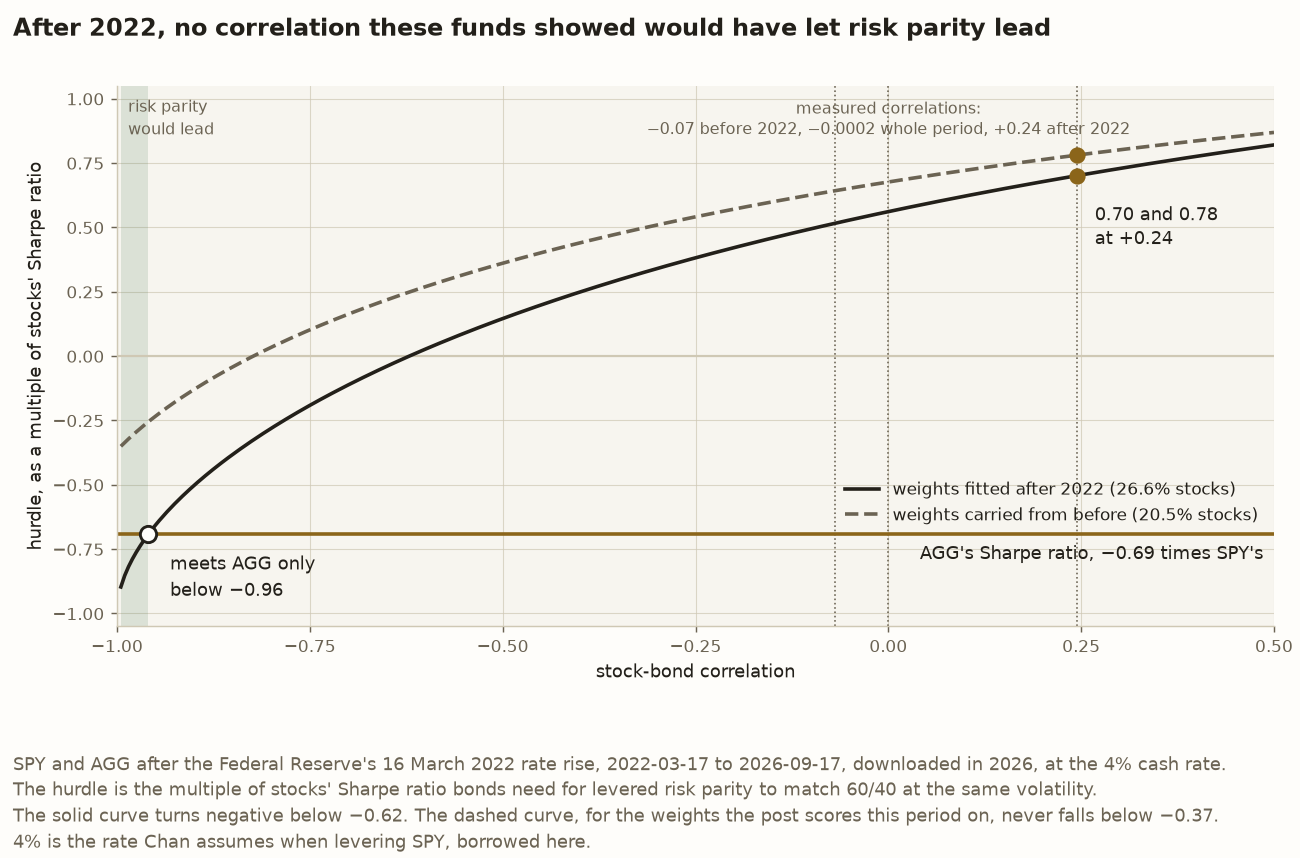
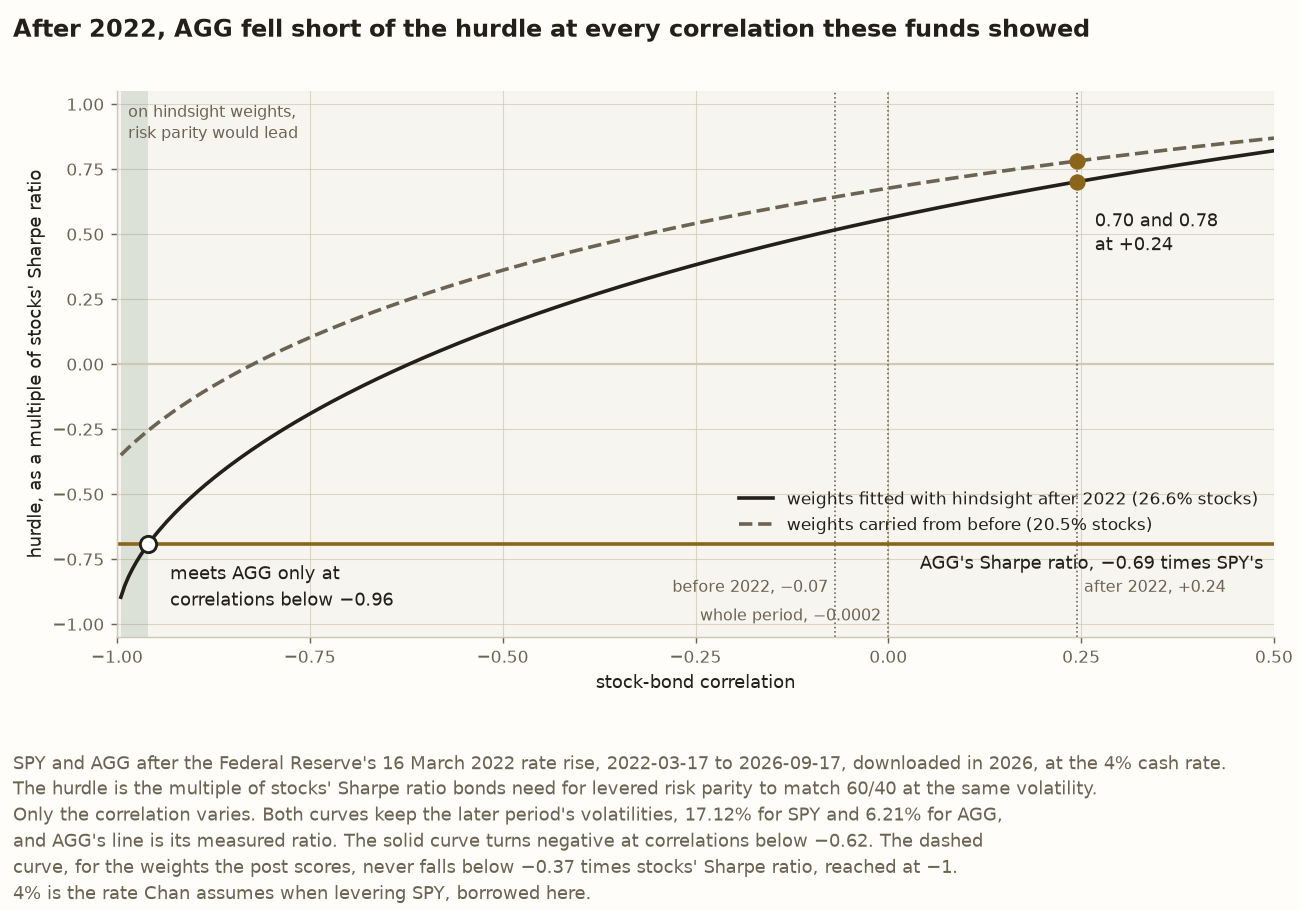
fix(figures): apply the review of the Lesson 6 figure
Three reviewers looked at the correlation figure. None found a wrong
number, and one reached every value by an independent derivation. What
survived:

- The shaded band said risk parity would lead below a correlation of
  -0.96 without saying on which weights. Only the hindsight weights do,
  and on the carried weights the post scores nothing closes the gap. The
  band and the legend now say hindsight weights.
- The figure never said it holds the later period's volatilities and
  AGG's measured ratio fixed while only the correlation moves, and its
  title claimed an outcome it does not model. The note now says what
  is held fixed, and the title describes the gap: AGG fell short of the
  hurdle at every correlation these funds showed.
- Correlations and hurdle values sat in one sentence with no units. The
  note, the labels, the alt text and README now name which is which.
- The three measured correlations shared one text block a dotted line
  ran through. Each line now carries its own label.
- Lesson 6 argued only on the hindsight weights. It now gives the
  carried weights' hurdle too, and the caption's "no correlation at
  all" is qualified by the 4% rate it holds at.
- No test covered the x axis. Tests now pin its range, ticks and labels,
  and four re-run mutations each fail.

diff --git a/src/chan/risk_parity_figures.py b/src/chan/risk_parity_figures.py
@@ -1350,6 +1350,8 @@ class CorrelationCurves:
     turns_negative: float
     meets_agg: float
     carried_floor: float
+    stock_vol: float
+    bond_vol: float
     start: str
     end: str
 
@@ -1411,6 +1413,8 @@ def correlation_curves() -> CorrelationCurves:
         turns_negative=_root(fitted, low, high),
         meets_agg=_root(lambda rho: fitted(rho) - agg, low, high),
         carried_floor=carried(-1.0),
+        stock_vol=legs.stock_vol,
+        bond_vol=legs.bond_vol,
         start=legs.start,
         end=legs.end,
     )
@@ -1427,7 +1431,7 @@ def make_correlation_figure(out: Path | None = None) -> Figure:
     """The later period's hurdle against the correlation, beside AGG's ratio."""
     drawn = correlation_curves()
 
-    fig = Figure(figsize=(10, 6.6), dpi=130)
+    fig = Figure(figsize=(10, 7.0), dpi=130)
     fig.patch.set_facecolor(SURFACE)
     ax = fig.subplots()
     _style(ax)
@@ -1442,7 +1446,9 @@ def make_correlation_figure(out: Path | None = None) -> Figure:
         color=INK,
         lw=2,
         zorder=3,
-        label=f"weights fitted after 2022 ({_share(drawn.fitted_stock_weight)} stocks)",
+        label=(
+            f"weights fitted with hindsight after 2022 ({_share(drawn.fitted_stock_weight)} stocks)"
+        ),
     )
     ax.plot(
         drawn.correlations,
@@ -1464,8 +1470,24 @@ def make_correlation_figure(out: Path | None = None) -> Figure:
         color=INK,
         fontsize=10,
     )
-    for _name, rho in drawn.measured:
+    placements = {
+        "before 2022": (-4, -0.86, "right"),
+        "whole period": (-4, -0.97, "right"),
+        "after 2022": (4, -0.86, "left"),
+    }
+    for name, rho in drawn.measured:
         ax.axvline(rho, color=MUTED, lw=0.9, ls=":", zorder=1)
+        dx, y, ha = placements[name]
+        ax.annotate(
+            f"{name}, {_correlation(rho)}",
+            (rho, y),
+            xytext=(dx, 0),
+            textcoords="offset points",
+            ha=ha,
+            va="center",
+            color=MUTED,
+            fontsize=9,
+        )
     after = drawn.measured[-1][1]
     for value in (drawn.fitted_at_measured, drawn.carried_at_measured):
         ax.plot([after], [value], "o", ms=8, color=ACCENT, zorder=5)
@@ -1481,24 +1503,11 @@ def make_correlation_figure(out: Path | None = None) -> Figure:
         fontsize=10,
         linespacing=1.35,
     )
-    ax.annotate(
-        "measured correlations:\n"
-        + ", ".join(f"{_correlation(rho)} {name}" for name, rho in drawn.measured),
-        (0.0, 1.0),
-        xycoords=("data", "axes fraction"),
-        xytext=(0, -6),
-        textcoords="offset points",
-        ha="center",
-        va="top",
-        color=MUTED,
-        fontsize=9,
-        linespacing=1.35,
-    )
     ax.plot(
         [drawn.meets_agg], [drawn.agg_ratio], "o", ms=9, mfc=SURFACE, mec=INK, mew=1.6, zorder=5
     )
     ax.annotate(
-        f"meets AGG only\nbelow {_signed(drawn.meets_agg)}",
+        f"meets AGG only at\ncorrelations below {_signed(drawn.meets_agg)}",
         (drawn.meets_agg, drawn.agg_ratio),
         xytext=(12, -10),
         textcoords="offset points",
@@ -1509,7 +1518,7 @@ def make_correlation_figure(out: Path | None = None) -> Figure:
         linespacing=1.35,
     )
     ax.annotate(
-        "risk parity\nwould lead",
+        "on hindsight weights,\nrisk parity would lead",
         (low, 1.0),
         xycoords=("data", "axes fraction"),
         xytext=(4, -6),
@@ -1534,17 +1543,20 @@ def make_correlation_figure(out: Path | None = None) -> Figure:
 
     _title(
         fig,
-        "After 2022, no correlation these funds showed would have let risk parity lead",
+        "After 2022, AGG fell short of the hurdle at every correlation these funds showed",
         f"{STOCK} and {BOND} after the Federal Reserve's 16 March 2022 rate rise, {drawn.start} to "
         f"{drawn.end}, downloaded in 2026, at the {RISK_FREE:.0%} cash rate.\n"
         "The hurdle is the multiple of stocks' Sharpe ratio bonds need for levered risk parity to "
         "match 60/40 at the same volatility.\n"
-        f"The solid curve turns negative below {_signed(drawn.turns_negative)}. The dashed curve, "
-        "for the weights the post scores this period on, never falls below "
-        f"{_signed(drawn.carried_floor)}.\n"
+        "Only the correlation varies. Both curves keep the later period's volatilities, "
+        f"{drawn.stock_vol:.2%} for SPY and {drawn.bond_vol:.2%} for AGG,\nand AGG's line is "
+        "its measured ratio. The solid curve turns negative at correlations below "
+        f"{_signed(drawn.turns_negative)}. The dashed\ncurve, for the weights the post scores, "
+        f"never falls below {_signed(drawn.carried_floor)} times stocks' Sharpe ratio, reached "
+        "at −1.\n"
         f"{RISK_FREE:.0%} is the rate Chan assumes when levering SPY, borrowed here.",
     )
-    fig.subplots_adjust(left=0.09, right=0.98, top=0.9, bottom=0.27)
+    fig.subplots_adjust(left=0.09, right=0.98, top=0.9, bottom=0.3)
     fig.curves = drawn
     return _save(fig, out, CORRELATION_FIGURE)
 

diff --git a/tests/test_risk_parity_figures.py b/tests/test_risk_parity_figures.py
@@ -1814,10 +1814,16 @@ class TestTheCorrelationPanel:
         drawn = correlation_figure.curves
         dotted = [line for line in ax.lines if line.get_linestyle() == ":"]
         assert [line.get_xdata()[0] for line in dotted] == [rho for _, rho in drawn.measured]
-        (listing,) = [t for t in ax.texts if t.get_text().startswith("measured correlations")]
-        assert listing.get_text() == (
-            "measured correlations:\n−0.07 before 2022, −0.0002 whole period, +0.24 after 2022"
-        )
+        # Each line carries its own label, anchored on it, rather than one block
+        # a line ran through.
+        labels = [t for t in ax.texts if t.get_text().startswith(("before", "whole", "after"))]
+        assert [t.get_text() for t in labels] == [
+            "before 2022, −0.07",
+            "whole period, −0.0002",
+            "after 2022, +0.24",
+        ]
+        for label, (_, rho) in zip(labels, drawn.measured, strict=True):
+            assert label.xy[0] == rho and label.xyann[0] != 0
 
     def test_the_marked_points(self, correlation_figure) -> None:
         ax = correlation_figure.axes[0]
@@ -1836,9 +1842,9 @@ class TestTheCorrelationPanel:
         ax = correlation_figure.axes[0]
         texts = _plain_texts(ax)
         assert "0.70 and 0.78\nat +0.24" in texts
-        assert "meets AGG only\nbelow −0.96" in texts
+        assert "meets AGG only at\ncorrelations below −0.96" in texts
         assert "AGG's Sharpe ratio, −0.69 times SPY's" in texts
-        assert "risk parity\nwould lead" in texts
+        assert "on hindsight weights,\nrisk parity would lead" in texts
         (meet,) = [t for t in ax.texts if t.get_text().startswith("meets AGG")]
         # Below and right of its point, where the curve has already risen away.
         assert meet.xyann[0] > 0 and meet.xyann[1] < 0
@@ -1854,7 +1860,7 @@ class TestTheCorrelationPanel:
     def test_the_legend_names_both_weights(self, correlation_figure) -> None:
         legend = correlation_figure.axes[0].get_legend()
         assert [t.get_text() for t in legend.get_texts()] == [
-            "weights fitted after 2022 (26.6% stocks)",
+            "weights fitted with hindsight after 2022 (26.6% stocks)",
             "weights carried from before (20.5% stocks)",
         ]
 
@@ -1880,20 +1886,36 @@ class TestTheCorrelationPanel:
         ]
         assert ax.get_xlabel() == "stock-bond correlation"
         assert ax.get_ylabel() == "hurdle, as a multiple of stocks' Sharpe ratio"
+        # The alt text quotes −1 to +0.5, so the range is pinned as a literal.
+        assert CORRELATION_RANGE == (-0.995, 0.5)
+        assert ax.get_xlim() == (-1.0, 0.5)
+        assert [t.get_text() for t in ax.get_xticklabels()] == [
+            "−1.00",
+            "−0.75",
+            "−0.50",
+            "−0.25",
+            "0.00",
+            "0.25",
+            "0.50",
+        ]
 
 
 class TestTheCorrelationFiguresText:
     def test_the_title_and_note(self, correlation_figure) -> None:
         assert correlation_figure._suptitle.get_text() == (
-            "After 2022, no correlation these funds showed would have let risk parity lead"
+            "After 2022, AGG fell short of the hurdle at every correlation these funds showed"
         )
         assert correlation_figure.texts[-1].get_text().split("\n") == [
             "SPY and AGG after the Federal Reserve's 16 March 2022 rate rise, 2022-03-17 to "
             "2026-09-17, downloaded in 2026, at the 4% cash rate.",
             "The hurdle is the multiple of stocks' Sharpe ratio bonds need for levered risk "
             "parity to match 60/40 at the same volatility.",
-            "The solid curve turns negative below −0.62. The dashed curve, for the weights the "
-            "post scores this period on, never falls below −0.37.",
+            "Only the correlation varies. Both curves keep the later period's volatilities, "
+            "17.12% for SPY and 6.21% for AGG,",
+            "and AGG's line is its measured ratio. The solid curve turns negative at correlations "
+            "below −0.62. The dashed",
+            "curve, for the weights the post scores, never falls below −0.37 times stocks' Sharpe "
+            "ratio, reached at −1.",
             "4% is the rate Chan assumes when levering SPY, borrowed here.",
         ]
 

diff --git a/tests/test_risk_parity.py b/tests/test_risk_parity.py
@@ -1602,7 +1602,7 @@ class TestTheHurdleForAnyWeights:
     def test_the_carried_weights_face_a_higher_hurdle_after_2022(self, measured) -> None:
         """About 0.78 at the later period's +0.24, against 0.70 on weights fitted
         inside it. It crosses zero only near −0.82 and never reaches AGG's
-        −0.69 at any correlation, bottoming out near −0.36 at −1."""
+        −0.69 at any correlation, bottoming out near −0.37 at −1."""
         early = measured["falling rates"][0].parity
         legs = measured["rising rates"][0].legs
         carried = (early.stock_weight, early.bond_weight)

diff --git a/blog/risk-parity-against-60-40.md b/blog/risk-parity-against-60-40.md
@@ -154,11 +154,11 @@ The volatility ratio and the correlation behind Qian’s figures differ between 
 
 The volatility ratio fell from 3.87 to 2.76, and the two periods sit on opposite sides of the 3.26 to 3.44 band Qian’s weights allow. The near-zero correlation of −0.0002 over the whole period is a blend of a negative stretch before 2022 and a positive one after it, rather than a stable property of stocks and bonds. The falling volatility ratio moved the weights, and together with the rising correlation it moved the leverage.
 
-Even weights computed inside the later period hold only 26.6% stocks, short of 60/40’s 60%, so risk parity still leans on bonds, and its result rests on what AGG earned. AGG averaged 1.16% a year, a Sharpe ratio of about −0.46 against SPY’s 0.66, or about −0.7 times stocks’. For weights computed inside the later period, at its correlation of +0.24, the hurdle was about +0.7 times stocks’, so AGG missed it by about 1.4 times stocks’ Sharpe ratio. A lower correlation lowers the hurdle, and below about −0.6 it turns negative, meaning risk parity could lead even with a bond Sharpe ratio a little below zero. That happens because risk parity’s volatility shrinks faster than 60/40’s as the two funds’ swings cancel. The hurdle would have reached −0.7 only at a correlation below about −0.96, where stocks and bonds move almost exactly opposite each other. The correlations measured here were −0.07 before 2022, +0.24 after it and −0.0002 over the whole period. None comes near −0.96, so none would have put risk parity ahead after 2022.
+Even weights computed inside the later period hold only 26.6% stocks, short of 60/40’s 60%, so risk parity still leans on bonds, and its result rests on what AGG earned. AGG averaged 1.16% a year, a Sharpe ratio of about −0.46 against SPY’s 0.66, or about −0.7 times stocks’. For weights computed inside the later period, at its correlation of +0.24, the hurdle was about +0.7 times stocks’, so AGG missed it by about 1.4 times stocks’ Sharpe ratio. A lower correlation lowers the hurdle, and below about −0.6 it turns negative, meaning risk parity could lead even with a bond Sharpe ratio a little below zero. That happens because risk parity’s volatility shrinks faster than 60/40’s as the two funds’ swings cancel. The hurdle would have reached −0.7 only at a correlation below about −0.96, where stocks and bonds move almost exactly opposite each other. On the 20.5% weights actually carried after 2022, the hurdle was higher still, about 0.78 at +0.24, and at no correlation does it fall below about −0.37 times stocks’ Sharpe ratio. The correlations measured here were −0.07 before 2022, +0.24 after it and −0.0002 over the whole period. None comes near −0.96, so none would have put risk parity ahead after 2022.
 
-![The hurdle bonds’ Sharpe ratio had to clear after 2022, as a multiple of stocks’, against the stock-bond correlation from −1 to +0.5. On weights fitted to the period it is 0.70 at the measured +0.24, turns negative below −0.62, and meets AGG’s −0.69 only below −0.96. On the 20.5% stock weights carried from before, which the post scores, it is 0.78 at +0.24 and never falls below −0.37. The measured correlations, −0.07 before 2022, −0.0002 over the whole period and +0.24 after it, are marked.](../docs/figures/risk_parity_hurdle_by_correlation.png)
+![The hurdle bonds’ Sharpe ratio had to clear after 2022, as a multiple of stocks’, against the stock-bond correlation from −1 to +0.5. Only the correlation varies, with the later period’s volatilities held fixed. On weights fitted to the period with hindsight, the hurdle is 0.70 at the measured +0.24, turns negative at correlations below −0.62, and meets AGG’s −0.69 only at correlations below −0.96. On the 20.5% stock weights carried from before, which the post scores, it is 0.78 at +0.24 and never falls below −0.37 times stocks’ Sharpe ratio. The measured correlations, −0.07 before 2022, −0.0002 over the whole period and +0.24 after it, are marked.](../docs/figures/risk_parity_hurdle_by_correlation.png)
 
-*AGG’s line stays far below both curves at every correlation these funds showed. On the weights actually carried after 2022, no correlation at all would have closed the gap.*
+*AGG’s line stays far below both curves at every correlation these funds showed. At the 4% rate, on the weights actually carried after 2022, no correlation at all would have closed the gap.*
 
 ## What this replication cannot say
 

diff --git a/README.md b/README.md
@@ -514,9 +514,10 @@ of 2.15, risk parity's Sharpe ratio of 0.13 on the hindsight weights, and the
 0.12 of the later period's 0.50 gap that hindsight closes, about a quarter,
 which leaves the three-quarters the post quotes. The seventh draws the later
 period's hurdle across correlations on both sets of weights: about 0.70 and
-0.78 at the measured +0.24, AGG's −0.69 times SPY's, the −0.62 below which the
-curve on fitted weights turns negative, the −0.96 at which it meets AGG, and the
-−0.37 below which the curve on carried weights never falls. The second, third
+0.78 at the measured +0.24, AGG's −0.69 times SPY's, the correlation of −0.62
+below which the curve on fitted weights turns negative, the correlation of
+−0.96 at which it meets AGG, and the −0.37 times stocks' Sharpe ratio below
+which the curve on carried weights never falls. The second, third
 and fourth figures carry Qian's printed numbers, listed in group 1, as cited
 constants.
 
